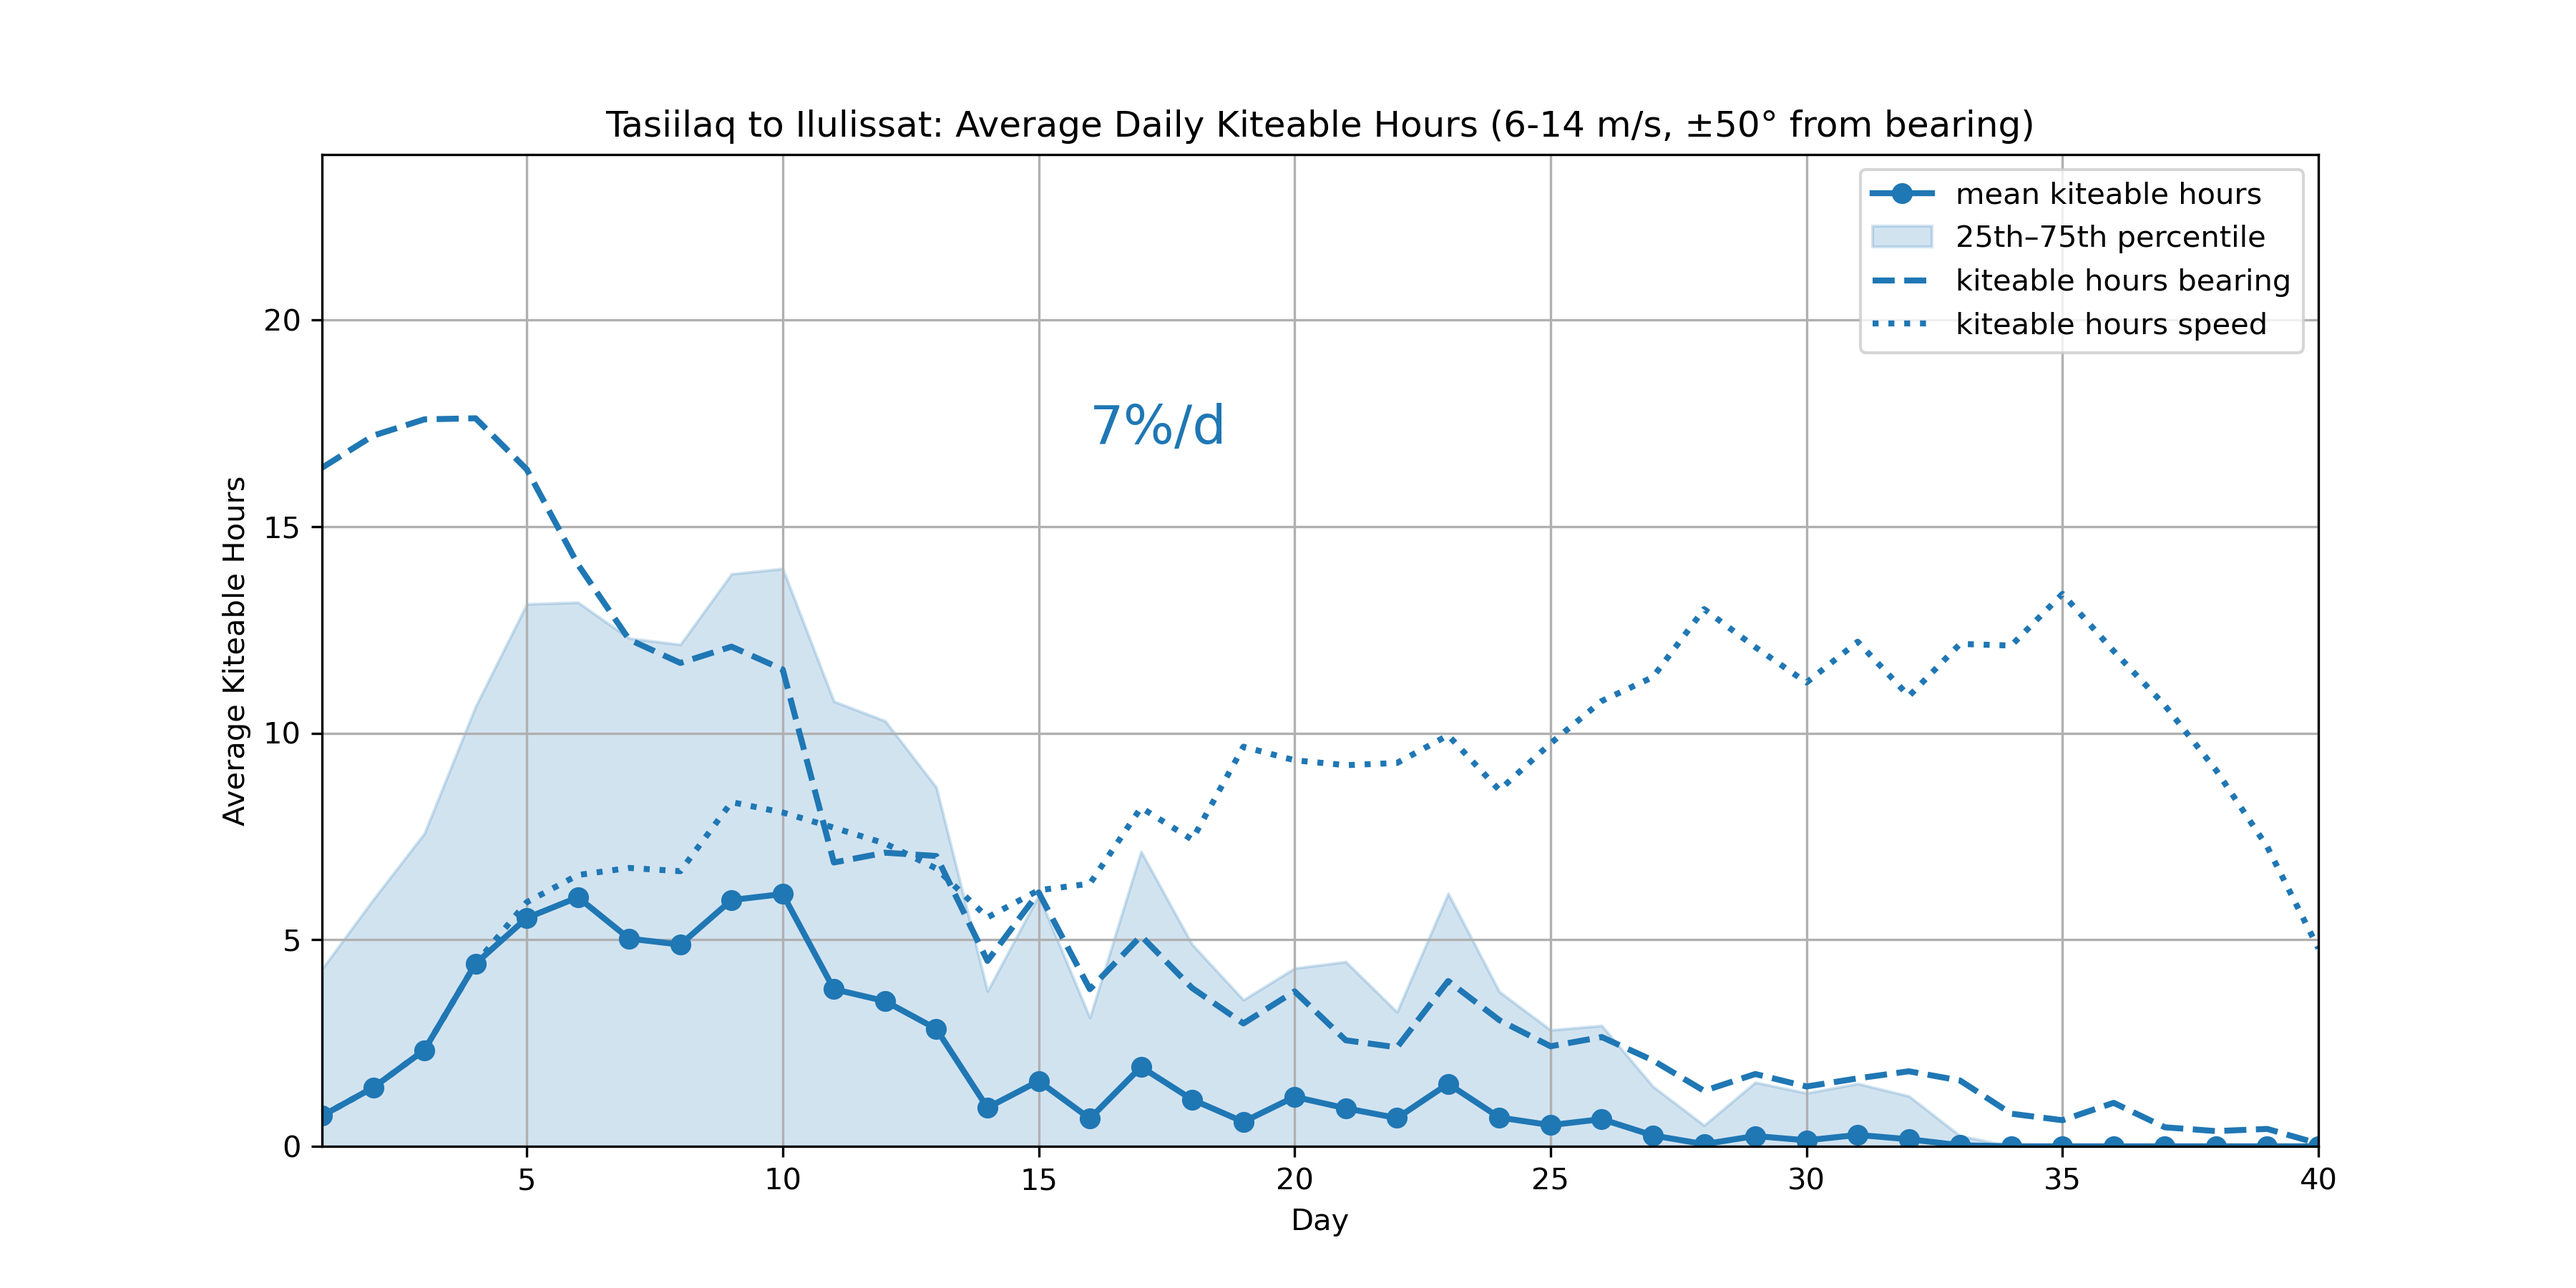
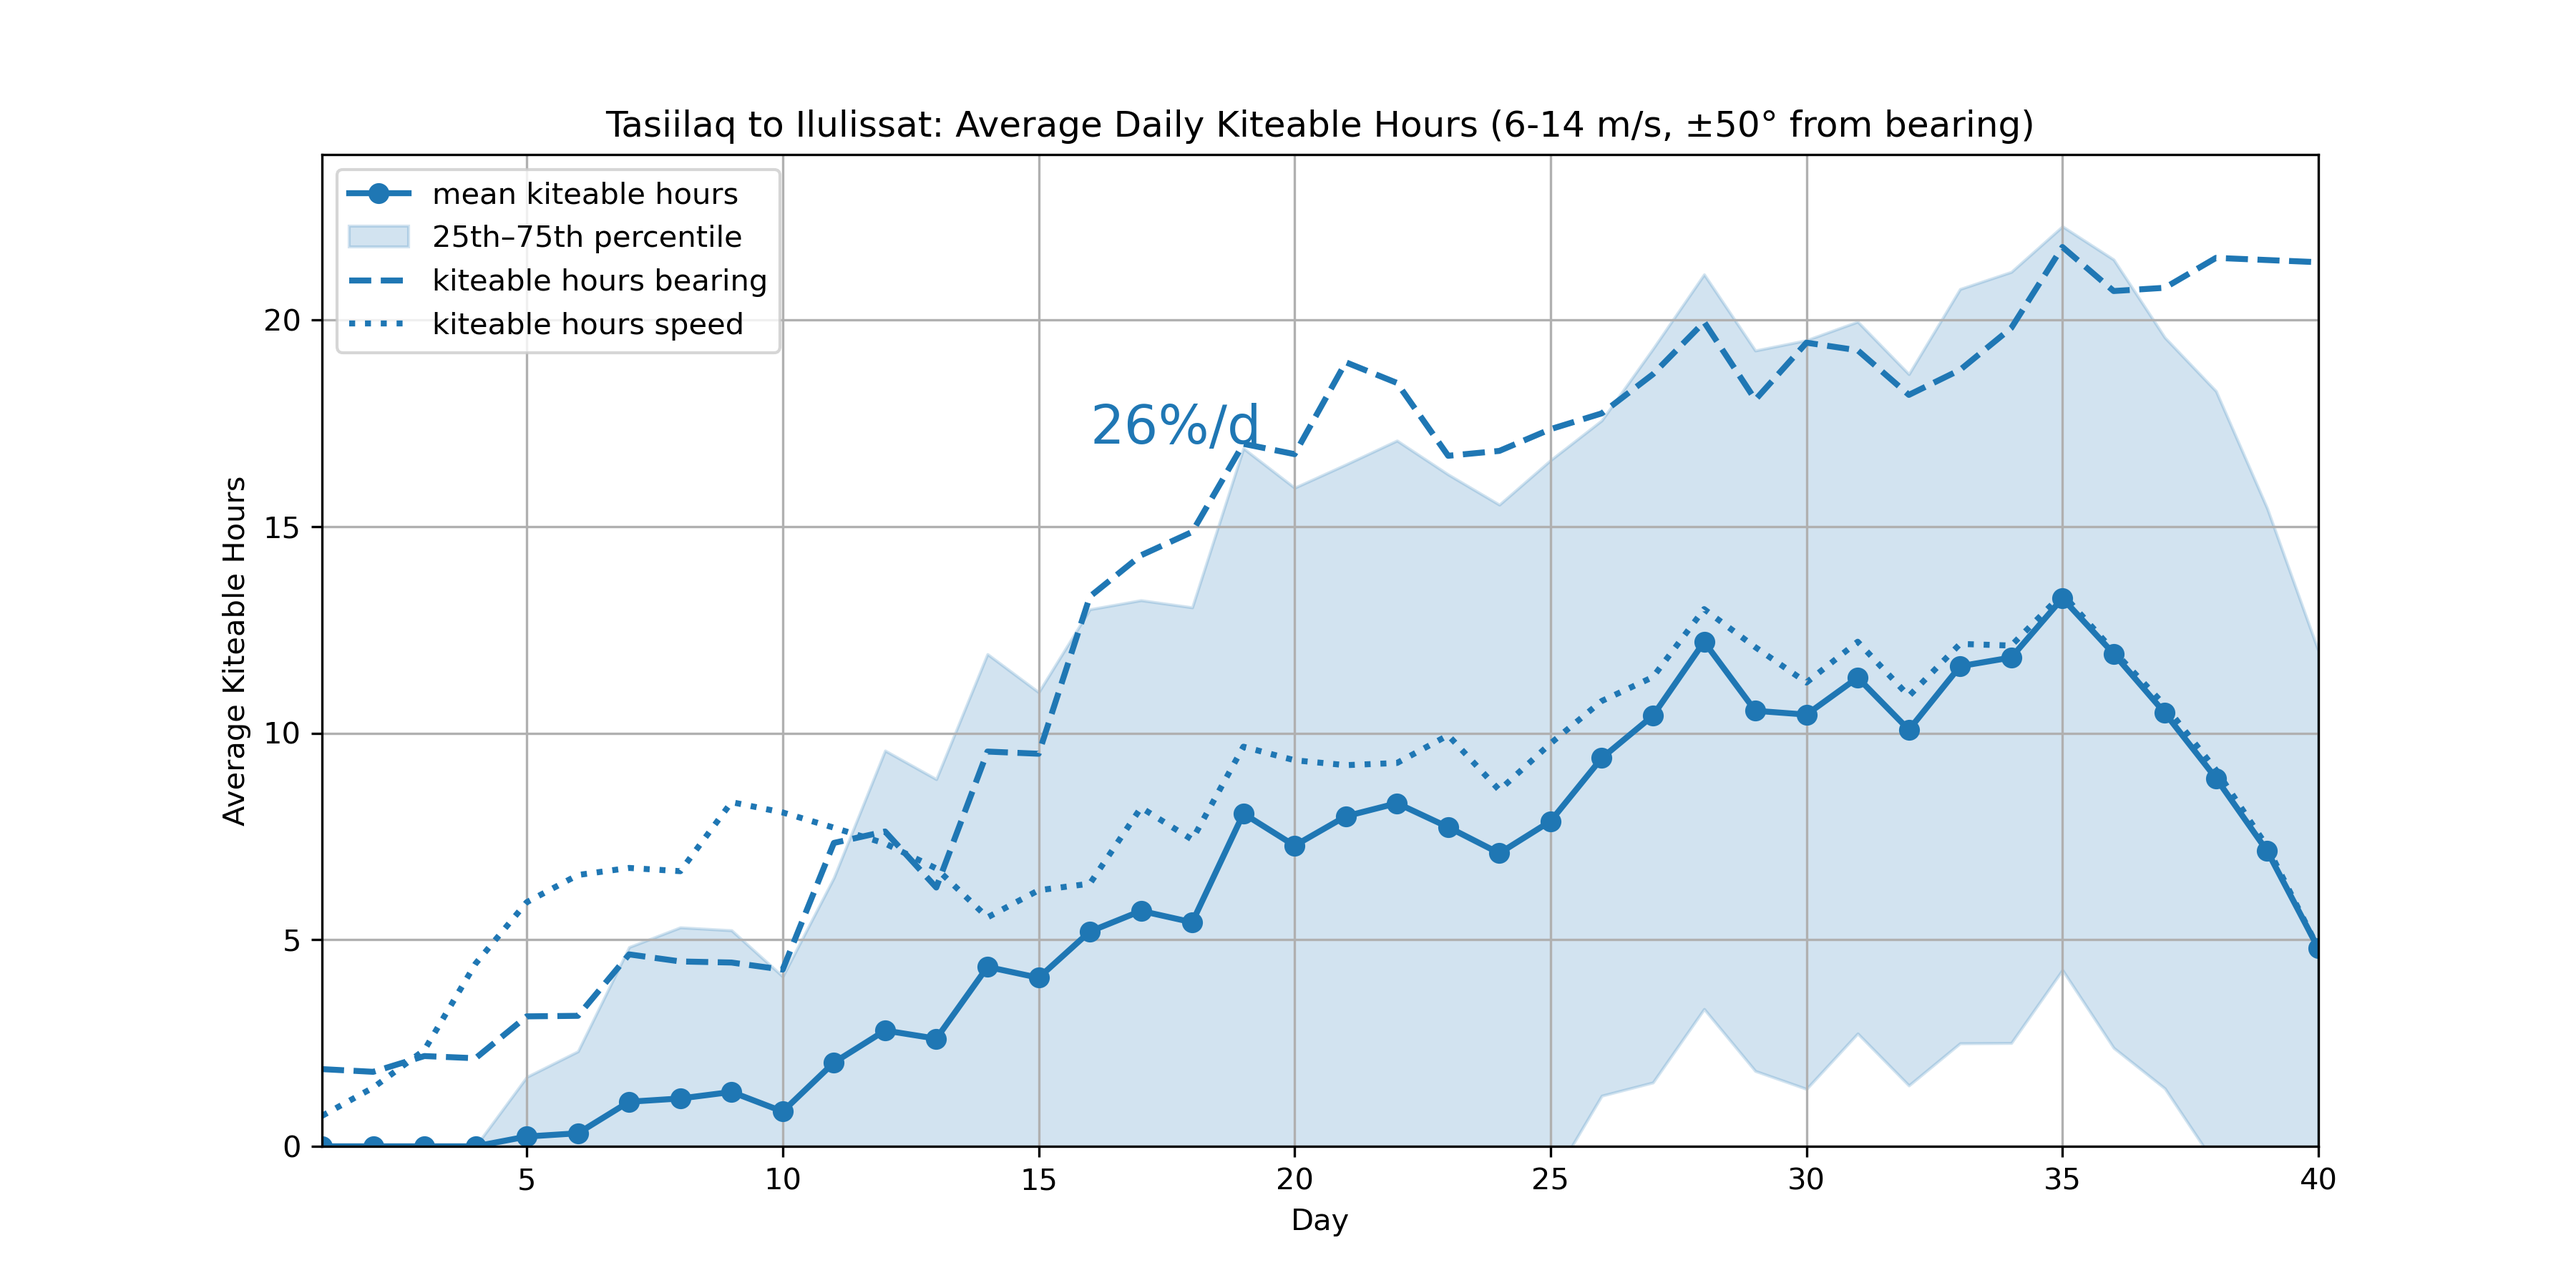
Correct wind direction for ERA5 analysis

diff --git a/ECMWF/ECMWF_ERA5.py b/ECMWF/ECMWF_ERA5.py
@@ -197,7 +197,7 @@ for i in range(n_points):
     v_pt = v10.sel(valid_time=dates[i], latitude=lats[i], longitude=lons[i], method="nearest").values
     ws_pt = np.sqrt(u_pt**2 + v_pt**2)
     # Wind direction in degrees: 0 = North, 90 = East, 180 = South, 270 = West
-    wd_pt = (np.arctan2(u_pt, v_pt) * 180 / np.pi) % 360
+    wd_pt = (np.arctan2(-u_pt, -v_pt) * 180 / np.pi) % 360
     ws_along_path.append(ws_pt)
     wind_dir_along_path.append(wd_pt)
 ws_along_path = np.array(ws_along_path)
@@ -385,7 +385,7 @@ for y_idx, year in enumerate(years):
             v_pt = v10.sel(valid_time=date+"T"+hours[h], latitude=lats[i], longitude=lons[i], method="nearest").values
             ws_pt = np.sqrt(u_pt**2 + v_pt**2)
             # Wind direction in degrees: 0 = North, 90 = East, 180 = South, 270 = West
-            wd_pt = (np.arctan2(u_pt, v_pt) * 180 / np.pi) % 360
+            wd_pt = (np.arctan2(-u_pt, -v_pt) * 180 / np.pi) % 360
             wind_speed_along_path[y_idx, i, h] = ws_pt # shape (len(years), len(dates), 24)
             wind_dir_along_path[y_idx, i, h] = wd_pt # shape (len(years), len(dates), 24)
 # %% Analze kiteable hours
@@ -431,6 +431,17 @@ average_kiteable_hours_speed = np.mean(kiteable_hours_speed, axis=0)
 percentile_25_kiteable_hours_speed = np.percentile(kiteable_hours_speed, 25, axis=0)
 percentile_75_kiteable_hours_speed = np.percentile(kiteable_hours_speed, 75, axis=0)
 
+# Save kiteable hours statistics to CSV
+kiteable_stats = pd.DataFrame({
+    "average_kiteable_hours": average_kiteable_hours,
+    "std_kiteable_hours": std_kiteable_hours,
+    "average_kiteable_hours_bearing": average_kiteable_hours_bearing,
+    "average_kiteable_hours_speed": average_kiteable_hours_speed
+})
+kiteable_stats.to_csv(
+    "C:/Users/SchwarzN/OneDrive - Université de Fribourg/Private/2026_Greenland/WeatherAnalysis/GreenlandWeatherData/ECMWF/kiteable_hours_stats_Illulisat_Tasiilaq.csv",
+    index=False
+)
 
 print(f"kiteable hours Illulisat - Tasiilaq: {np.mean(average_kiteable_hours/(np.ones(len(average_kiteable_hours))*24))*100:.0f}%/d")
 
@@ -478,7 +489,6 @@ plt.annotate(f"{np.mean(average_kiteable_hours/(np.ones(len(average_kiteable_hou
 plt.savefig("C:/Users/SchwarzN/OneDrive - Université de Fribourg/Private/2026_Greenland/WeatherAnalysis/GreenlandWeatherData/ECMWF/kiteable_hours_Illulisat_Tasiilaq_1950_2026.png", dpi=300)
 plt.show()
 # %% Generate windrose for all locations/date taking into account all years and hours
-# ? Is it reasonable to analyze for differences and trends between different years?
 # import windrose
 
 # def plot_windrose(wind_speed, wind_dir, years, date, lat, lon):
@@ -496,7 +506,6 @@ plt.show()
 #     plot_windrose(wind_speed_along_path[:, day_idx, :], wind_dir_along_path[:, day_idx, :], years, dates[day_idx], lats[day_idx], lons[day_idx])
 
 # %% Generate windrose for all locations/date taking into account all years and hours
-# ? Is it reasonable to analyze for differences and trends between different years?
 import numpy as np
 import pandas as pd
 import seaborn as sns
@@ -634,7 +643,7 @@ for y_idx, year in enumerate(years):
             v_pt = v10.sel(valid_time=date+"T"+hours[h], latitude=lats[i], longitude=lons[i], method="nearest").values
             ws_pt = np.sqrt(u_pt**2 + v_pt**2)
             # Wind direction in degrees: 0 = North, 90 = East, 180 = South, 270 = West
-            wd_pt = (np.arctan2(u_pt, v_pt) * 180 / np.pi) % 360
+            wd_pt = (np.arctan2(-u_pt, -v_pt) * 180 / np.pi) % 360
             wind_speed_along_path[y_idx, i, h] = ws_pt # shape (len(years), len(dates), 24)
             wind_dir_along_path[y_idx, i, h] = wd_pt # shape (len(years), len(dates), 24)
 # %% Analze kiteable hours
@@ -680,6 +689,17 @@ average_kiteable_hours_speed = np.mean(kiteable_hours_speed, axis=0)
 percentile_25_kiteable_hours_speed = np.percentile(kiteable_hours_speed, 25, axis=0)
 percentile_75_kiteable_hours_speed = np.percentile(kiteable_hours_speed, 75, axis=0)
 
+# Save kiteable hours statistics to CSV
+kiteable_stats = pd.DataFrame({
+    "average_kiteable_hours": average_kiteable_hours,
+    "std_kiteable_hours": std_kiteable_hours,
+    "average_kiteable_hours_bearing": average_kiteable_hours_bearing,
+    "average_kiteable_hours_speed": average_kiteable_hours_speed
+})
+kiteable_stats.to_csv(
+    "C:/Users/SchwarzN/OneDrive - Université de Fribourg/Private/2026_Greenland/WeatherAnalysis/GreenlandWeatherData/ECMWF/kiteable_hours_stats_Tasiilaq_Illulisat.csv",
+    index=False
+)
 
 print(f"kiteable hours Tasiilaq - Illulisat: {np.mean(average_kiteable_hours/(np.ones(len(average_kiteable_hours))*24))*100:.0f}%/d")
 
@@ -727,7 +747,6 @@ plt.annotate(f"{np.mean(average_kiteable_hours/(np.ones(len(average_kiteable_hou
 plt.savefig("C:/Users/SchwarzN/OneDrive - Université de Fribourg/Private/2026_Greenland/WeatherAnalysis/GreenlandWeatherData/ECMWF/kiteable_hours_Tasiilaq_Illulisat.png", dpi=300)
 plt.show()
 # %% Generate windrose for all locations/date taking into account all years and hours
-# ? Is it reasonable to analyze for differences and trends between different years?
 import numpy as np
 import pandas as pd
 import seaborn as sns
@@ -818,3 +837,54 @@ for ax, (date, subdata) in zip(g.axes.flat, wind_data.groupby("date")):
 plt.subplots_adjust(wspace=-0.2, hspace=0.4)
 plt.savefig("C:/Users/SchwarzN/OneDrive - Université de Fribourg/Private/2026_Greenland/WeatherAnalysis/GreenlandWeatherData/ECMWF/Tasiilaq_Illulisat_windrose.png", dpi=300)
 plt.show()
+# %%
+# Plot average kiteable hours per day along the path
+import matplotlib.pyplot as plt
+import numpy as np
+import pandas as pd
+# Read kiteable hours stats for both directions
+stats_illu_tas = pd.read_csv(
+    r"C:\Users\SchwarzN\OneDrive - Université de Fribourg\Private\2026_Greenland\WeatherAnalysis\GreenlandWeatherData\ECMWF\kiteable_hours_stats_Illulisat_Tasiilaq.csv"
+)
+stats_tas_illu = pd.read_csv(
+    r"C:\Users\SchwarzN\OneDrive - Université de Fribourg\Private\2026_Greenland\WeatherAnalysis\GreenlandWeatherData\ECMWF\kiteable_hours_stats_Tasiilaq_Illulisat.csv"
+)
+
+print(f"kiteable hours Illulisat - Tasiilaq: {np.mean(stats_illu_tas['average_kiteable_hours']/(np.ones(len(stats_illu_tas['average_kiteable_hours']))*24))*100:.0f}%/d")
+print(f"kiteable hours Tasiilaq - Illulisat: {np.mean(stats_tas_illu['average_kiteable_hours']/(np.ones(len(stats_tas_illu['average_kiteable_hours']))*24))*100:.0f}%/d")
+
+plt.figure(figsize=(12, 6))
+# plt.errorbar(np.arange(1, len(stats_illu_tas['average_kiteable_hours'])+1), stats_illu_tas['average_kiteable_hours'], yerr=stats_illu_tas['std_kiteable_hours'], fmt='o', color='tab:blue', ecolor='lightblue', elinewidth=2, capsize=4, label='illu-tas mean kiteable hours ± std')
+plt.plot(np.arange(1, len(stats_illu_tas['average_kiteable_hours'])+1), stats_illu_tas['average_kiteable_hours'], marker='o', color='tab:blue', linewidth = 2, label='illu-tas mean kiteable hours')
+plt.fill_between(
+    np.arange(1, len(stats_illu_tas['average_kiteable_hours'])+1),
+    stats_illu_tas['average_kiteable_hours'] - stats_illu_tas['std_kiteable_hours'],
+    stats_illu_tas['average_kiteable_hours'] + stats_illu_tas['std_kiteable_hours'],
+    color='tab:blue', alpha=0.2, label='illu-tas std dev kiteable hours'
+)
+# plt.plot(np.arange(1, len(stats_illu_tas['average_kiteable_hours'])+1), stats_illu_tas['average_kiteable_hours_bearing'], linestyle = '--', color='tab:blue', linewidth = 2, label='illu-tas kiteable hours bearing')
+# plt.plot(np.arange(1, len(stats_illu_tas['average_kiteable_hours'])+1), stats_illu_tas['average_kiteable_hours_speed'], linestyle = ':', color='tab:blue', linewidth = 2, label='illu-tas kiteable hours speed')
+
+# plt.errorbar(np.arange(1, len(stats_tas_illu['average_kiteable_hours'])+1), stats_tas_illu['average_kiteable_hours'], yerr=stats_tas_illu['std_kiteable_hours'], fmt='o', color='tab:red', ecolor='red', elinewidth=2, capsize=4, label='illu-tas mean kiteable hours ± std')
+plt.plot(np.arange(1, len(stats_tas_illu['average_kiteable_hours'])+1), stats_tas_illu['average_kiteable_hours'], marker='o', color='tab:red', linewidth = 2, label='illu-tas mean kiteable hours')
+plt.fill_between(
+    np.arange(1, len(stats_tas_illu['average_kiteable_hours'])+1),
+    stats_tas_illu['average_kiteable_hours'] - stats_tas_illu['std_kiteable_hours'],
+    stats_tas_illu['average_kiteable_hours'] + stats_tas_illu['std_kiteable_hours'],
+    color='tab:red', alpha=0.2, label='illu-tas std dev kiteable hours'
+)
+# plt.plot(np.arange(1, len(stats_tas_illu['average_kiteable_hours'])+1), stats_tas_illu['average_kiteable_hours_bearing'], linestyle = '--', color='tab:red', linewidth = 2, label='illu-tas kiteable hours bearing')
+# plt.plot(np.arange(1, len(stats_tas_illu['average_kiteable_hours'])+1), stats_tas_illu['average_kiteable_hours_speed'], linestyle = ':', color='tab:red', linewidth = 2, label='illu-tas kiteable hours speed')
+
+plt.title("Tasiilaq to Ilulissat: Average Daily Kiteable Hours (6-14 m/s, ±50° from bearing)")
+plt.xlabel("Day")
+plt.ylabel("Average Kiteable Hours")
+plt.xlim(1, len(stats_illu_tas['average_kiteable_hours']))
+plt.ylim(0,24)
+plt.legend()
+plt.grid()
+plt.annotate(f"{np.mean(stats_illu_tas['average_kiteable_hours']/(np.ones(len(stats_illu_tas['average_kiteable_hours']))*24))*100:.0f}%/d", xy=(6, 7.5), fontsize=18, color='tab:blue')
+plt.annotate(f"{np.mean(stats_tas_illu['average_kiteable_hours']/(np.ones(len(stats_tas_illu['average_kiteable_hours']))*24))*100:.0f}%/d", xy=(6, 12.5), fontsize=18, color='tab:red')
+plt.savefig("C:/Users/SchwarzN/OneDrive - Université de Fribourg/Private/2026_Greenland/WeatherAnalysis/GreenlandWeatherData/ECMWF/kiteable_hours.png", dpi=300)
+plt.show()
+# %%
